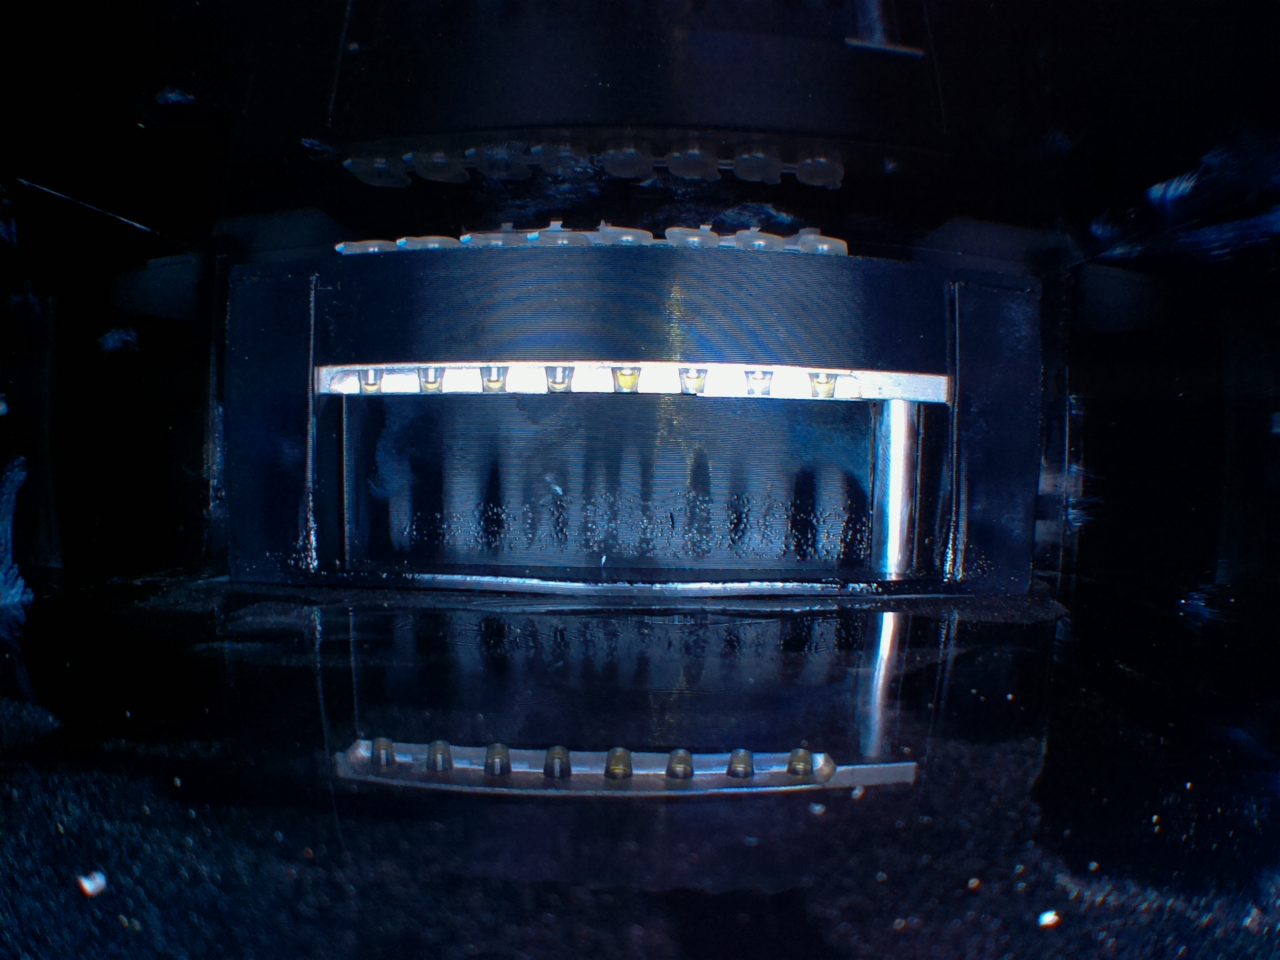
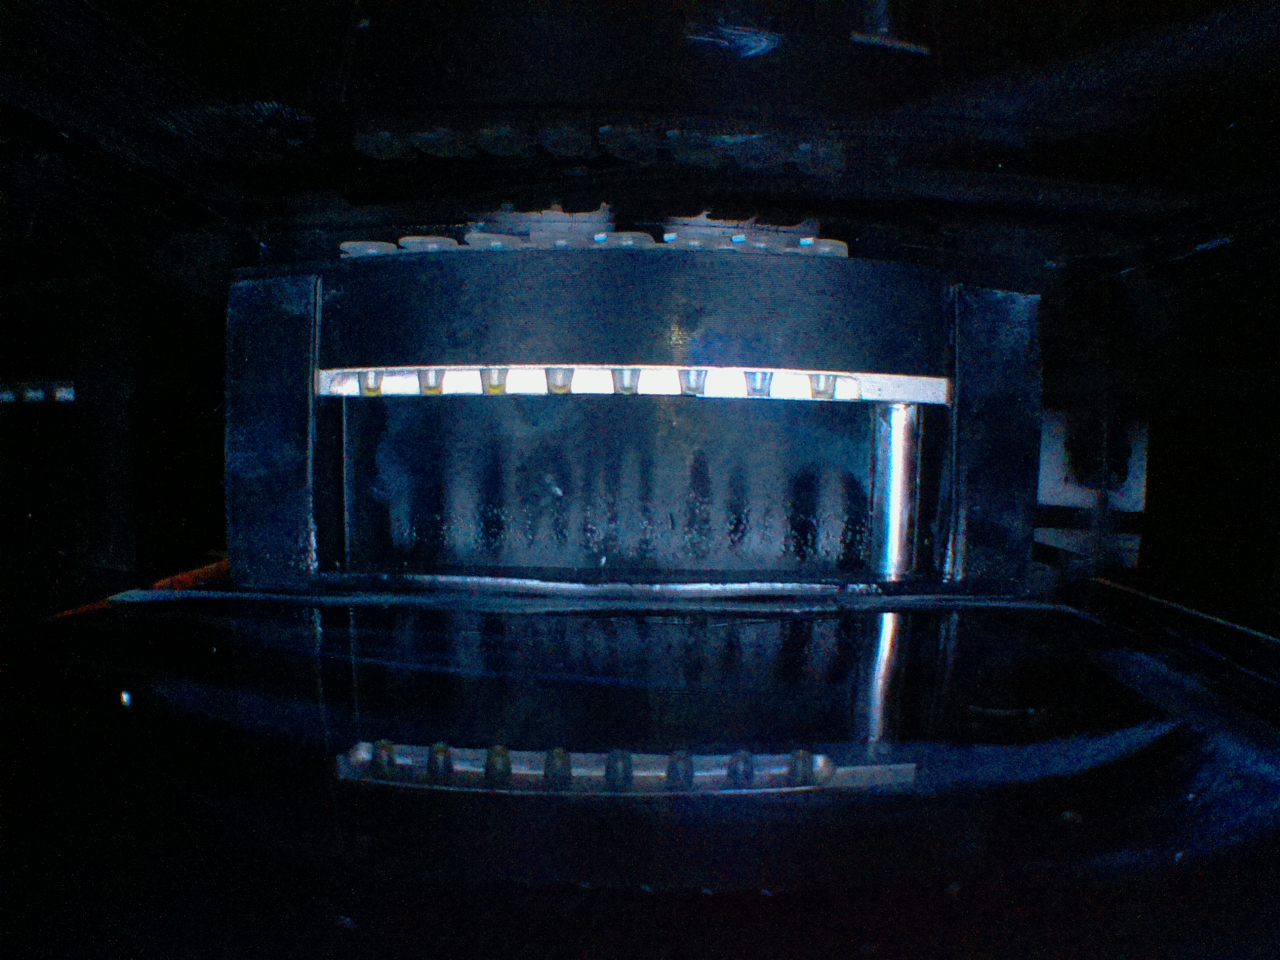
bỏ ex night, thêm ss 14000

diff --git a/testtubenew-v4.py b/testtubenew-v4.py
@@ -210,14 +210,13 @@ def capture_image_from_camera(output_path='captured_image.jpg'):
         # Construct the raspistill command
         command = [
             'raspistill',
-            '-o', output_path,
-            '-ex', 'night',
+            '-o', output_path,            
             '-w', '1280',
             '-h', '960',
             '-q', '100',
             '-t', '1000',
             '-hf','-vf',
-            '-ss','12000',
+            '-ss','14000',
               '-awb','-auto'  # 2 seconds delay before capture
         ]
 
